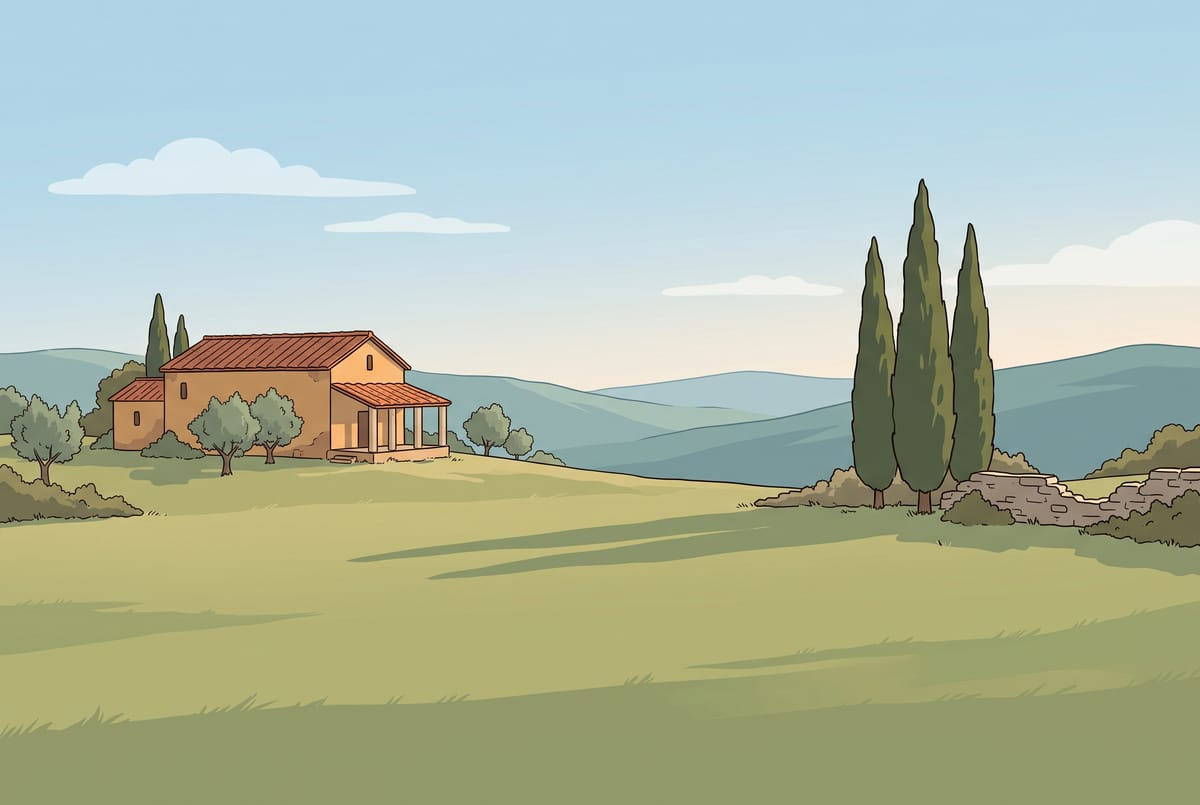
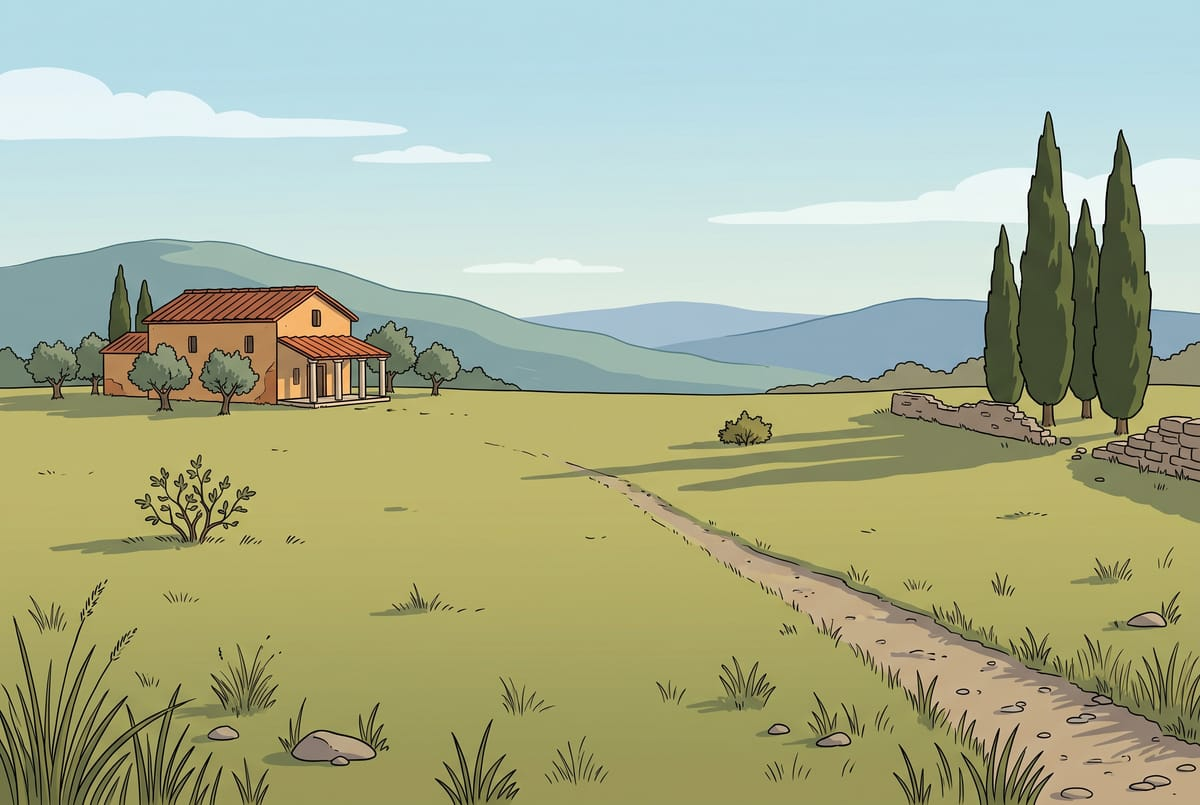
Silentium: der zweite Hintergrund, Tiefenwerte neu gemessen
Der neue Bogen hat, worum es ging: einen Weg, der nach hinten duenner
wird, Grasbueschel und Steine, die vorn gross und hinten klein sind, und
Straeucher in verschiedenen Entfernungen. Genau die Anhaltspunkte, die
dem Auge sagen, wie weit etwas weg ist - ohne sie traegt die
Tiefenstaffelung nur halb.

89 KB bei 1200x805 (Quelle 2 MB), die ganze Szene liegt damit bei 161 KB
gegen ein Budget von 600 KB.

DIE KANTE HAT SICH VERSCHOBEN, und zwar deutlich. Gemessen statt
geschaetzt: Ein Skript sucht spaltenweise die erste Zeile, in der die
Farbe von huegelblau auf wiesengruen umschlaegt.
  erster Hintergrund:  0,57 bis 0,62
  zweiter Hintergrund: 0,48 bis 0,51
Die Wiese ist also groesser geworden. Haette ich die alten Werte stehen
lassen, waere der hintere Drittel der Wiese ungenutzt geblieben.

Neu: WIESE_HINTEN 0,52 statt 0,63, TIEFE_HINTEN 0,38 statt 0,45. Der
Tiefenbereich ist damit deutlich groesser - dieselbe Woelfin misst hinten
31x25 und vorn 106x86 Bildpunkte.

Auch die Verengung nach hinten ist nachgezogen: Links steht das Landgut
mit seinen Olivenbaeumen (bis etwa 0,33), rechts die Trockenmauer mit den
Zypressen (ab etwa 0,74). Ganz hinten bleibt nur die Mitte, vorn ist die
volle Breite frei.

Nachgeprueft ueber 400 Ankuenfte, indem an jeder Ankunftsstelle die Farbe
des Hintergrunds gelesen wurde: 397 auf Boden (Gras, Schatten, Weg,
Steine), 0 im Himmel, 0 auf der Villa, 3 auf huegelblauen Punkten ganz
hinten - vermutlich Steine der Mauer.

Alle Tests gruen.

diff --git a/Silentium.html b/Silentium.html
@@ -299,16 +299,20 @@ const HINTERGRUND = 'assets/silentium/villa-rustica.jpg';
    gedachten Linie und waren gleich gross - die Szene sah aus wie ein
    Schattenspiel.
 
-   Die zwei Randwerte sind am Bild abgelesen: Die Gelaendekante laeuft von
-   0,57 links auf 0,62 rechts, also ist 0,63 die hinterste Stelle, an der
-   noch jemand im Gras steht. Unten bleibt ein Rand frei, damit niemand halb
-   aus dem Bild ragt.
+   Die zwei Randwerte sind am Bild GEMESSEN, nicht geschaetzt: Ein kleines
+   Skript sucht spaltenweise die erste Zeile, in der die Farbe von huegelblau
+   auf wiesengruen umschlaegt. Beim zweiten Hintergrund (mit Weg und
+   gestaffelten Grasbuescheln) liegt diese Kante bei 0,48 bis 0,51 - deutlich
+   hoeher als beim ersten, die Wiese ist also groesser geworden. 0,52 ist
+   damit die hinterste Stelle, an der ueberall noch Gras ist.
+   Unten bleibt ein Rand frei, damit niemand halb aus dem Bild ragt und die
+   grossen Grasbueschel im Vordergrund nicht ueberdeckt werden.
 
    Die Groessen dazwischen sind NICHT linear, sondern etwas gestaucht
    (Exponent 1,4). Perspektivisch waere der Zusammenhang 1/Abstand; linear
    wirkt die hintere Haelfte zu gross und die Tiefe flach. */
-const WIESE_HINTEN = 0.63, WIESE_VORN = 0.96;
-const TIEFE_HINTEN = 0.45, TIEFE_VORN = 1.30;
+const WIESE_HINTEN = 0.52, WIESE_VORN = 0.94;
+const TIEFE_HINTEN = 0.38, TIEFE_VORN = 1.30;
 
 function tiefenFaktor(y) {
     const t = (y - WIESE_HINTEN) / (WIESE_VORN - WIESE_HINTEN);
@@ -554,9 +558,11 @@ function eintreten(gast) {
     /* Anteile des Hintergrundbildes, ueber die ganze Wiese verteilt - vorn
        wie hinten. Wie gross jemand erscheint, sagt dann tiefenFaktor(). */
     const y = WIESE_HINTEN + Math.random() * (WIESE_VORN - WIESE_HINTEN);
-    /* Nach hinten wird die sichtbare Wiese schmaler, weil die Huegel
-       hereinragen. Wer weit hinten steht, rueckt deshalb zur Mitte. */
-    const enge = 0.10 + 0.22 * (1 - (y - WIESE_HINTEN) / (WIESE_VORN - WIESE_HINTEN));
+    /* Nach hinten wird die freie Wiese schmaler - links steht das Landgut mit
+       seinen Olivenbaeumen (bis etwa 0,33), rechts die Trockenmauer mit den
+       Zypressen (ab etwa 0,74). Ganz hinten bleibt also nur die Mitte, vorn
+       ist die volle Breite frei. */
+    const enge = 0.05 + 0.30 * (1 - (y - WIESE_HINTEN) / (WIESE_VORN - WIESE_HINTEN));
     anwesend.push({
         gast: gast,
         x: enge + Math.random() * (1 - 2 * enge),
